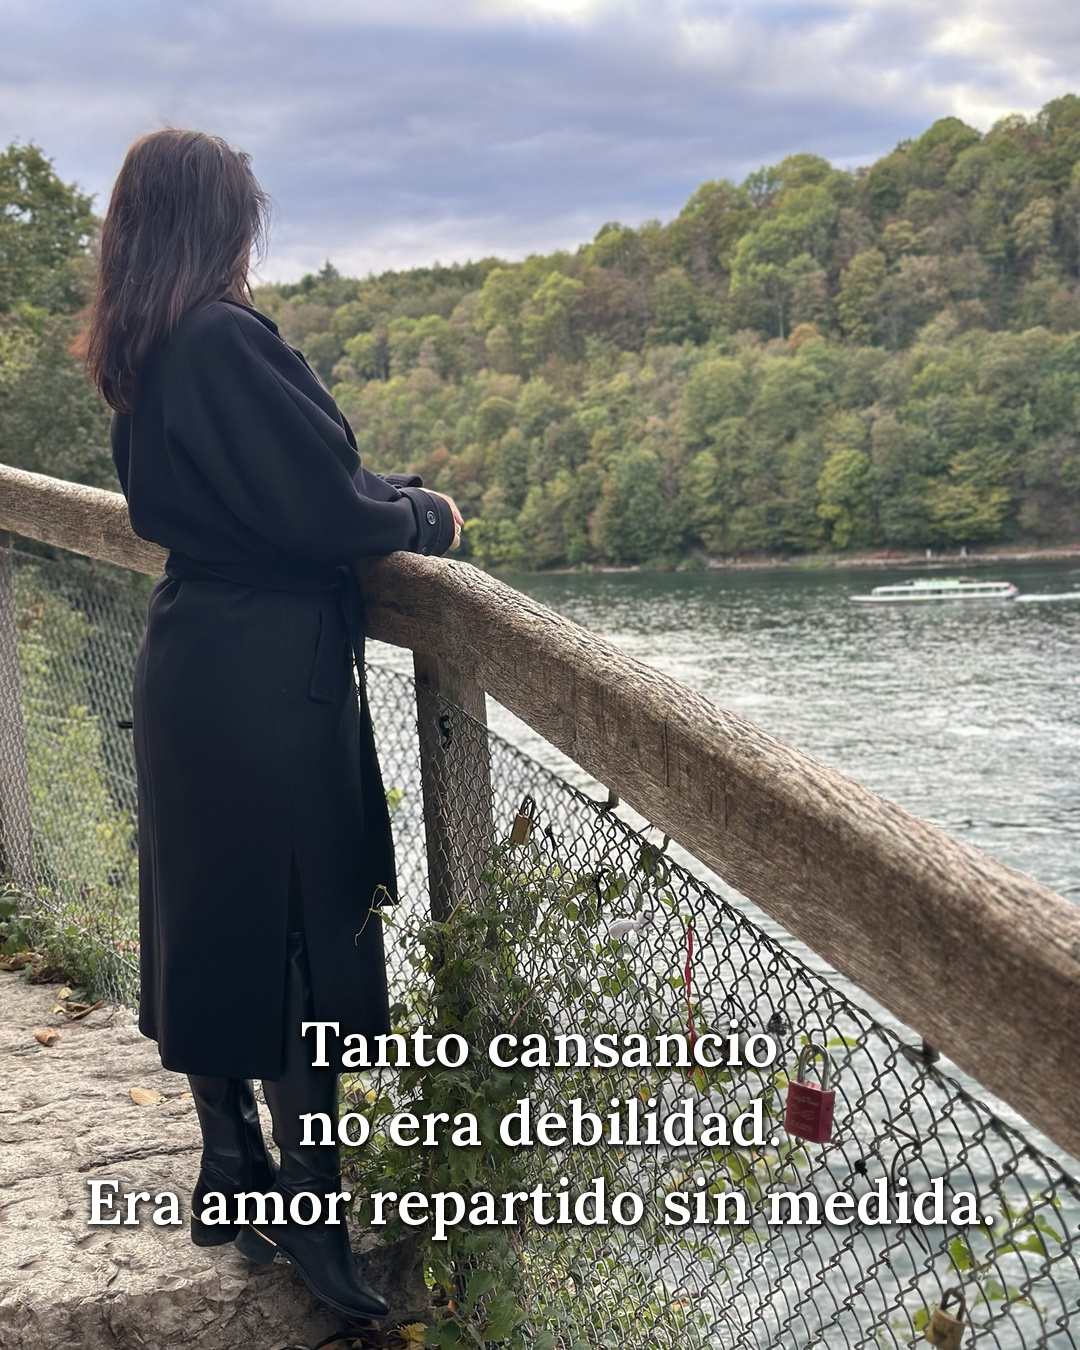
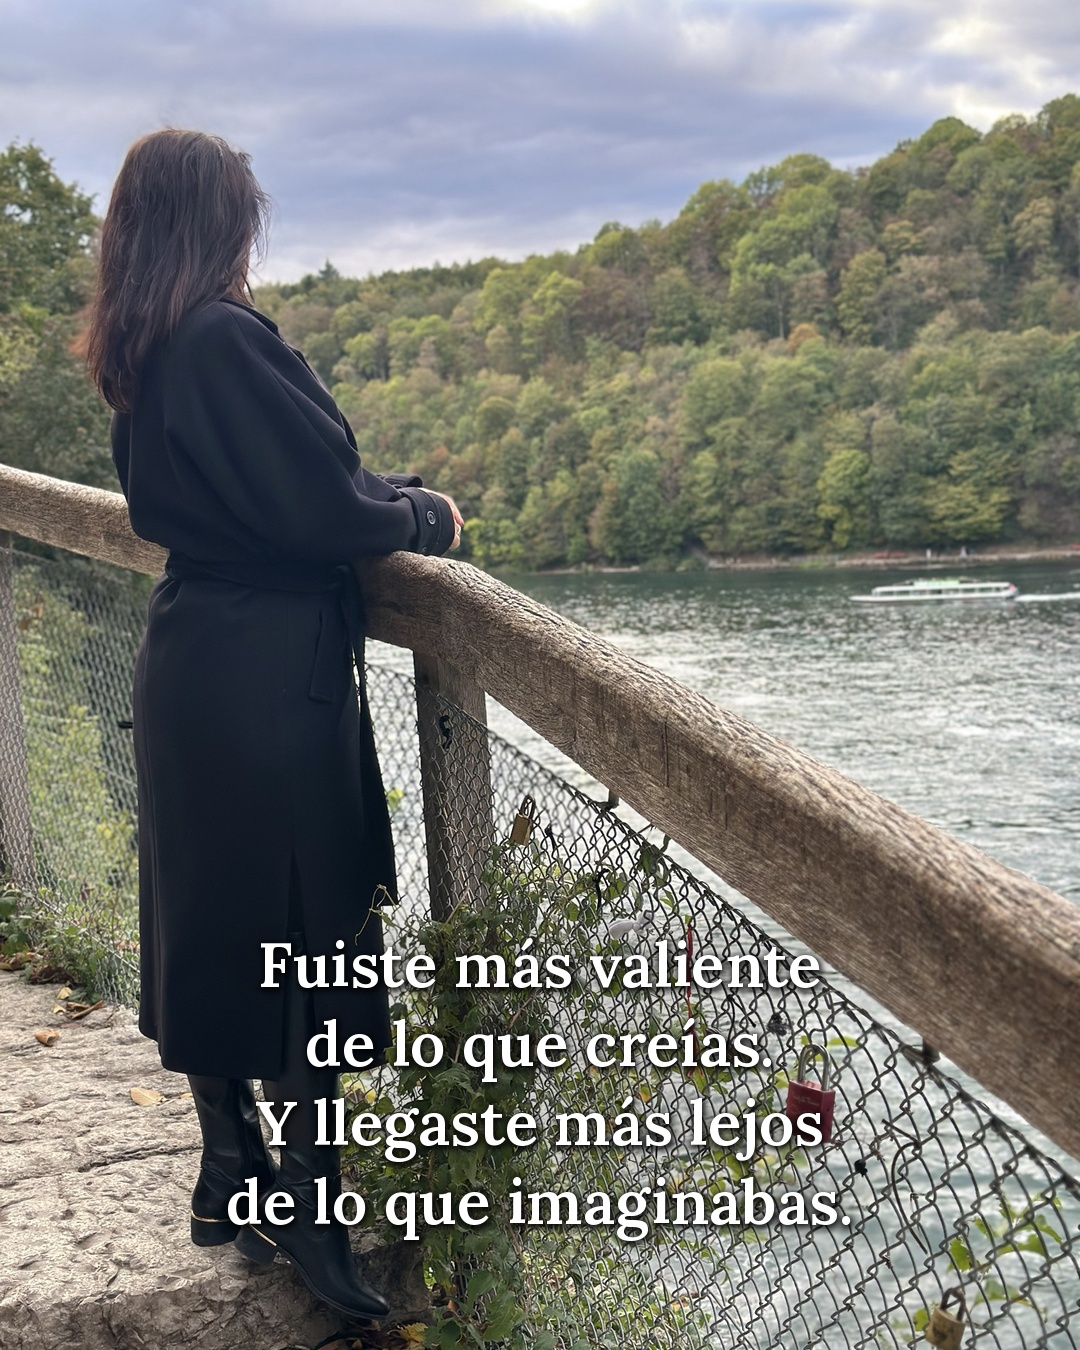
Carrusel 21 nov: diapositiva 3 sin victimismo
Claude-Session: https://claude.ai/code/session_01DvE22EYfGFMJ7juH4Ni6wN

Changed region(s): [[0.0611, 0.6844, 0.9167, 0.9333]]

diff --git a/USADAS.md b/USADAS.md
@@ -156,3 +156,4 @@ Coni pidió quitar «Cené sola y fue precioso» porque se parecía a «salir so
 ## 17 nov: carrusel «Una carta a la mujer que fui» (carruseles/carta_21nov/, APROBADO 17 nov; programado en Metricool el 21 nov a las 11:00 en Instagram y Facebook, se publica solo)
 - Fotos: 1 24-ventana-perfil-jardin; 2 20-salon-blusa-blanca-taza; 3 940a772b (lago, de espaldas); 4 19a76e4b (sillón de cuero; ya no se puede usar 19a76e4b, d4d80c93 ni ed2b6102); 5 11-noche-piscina-vestido-negro; 6 gabardina-banco-1; 7 21-ventana-de-espaldas-cortina.
 - REGLA (Coni, 17 nov): los carruseles van con SUS fotos, una en cada diapositiva, con el texto encima (blanco, degradado suave, sin tapar la cara). Formato 1080x1350. Generador: scripts_carrusel.py.
+- 17 nov: Coni pide cambiar la diapositiva 3 (sin victimismos). Ahora dice «Fuiste más valiente de lo que creías. Y llegaste más lejos de lo que imaginabas.». REGLA: nada de victimismo en los textos.
